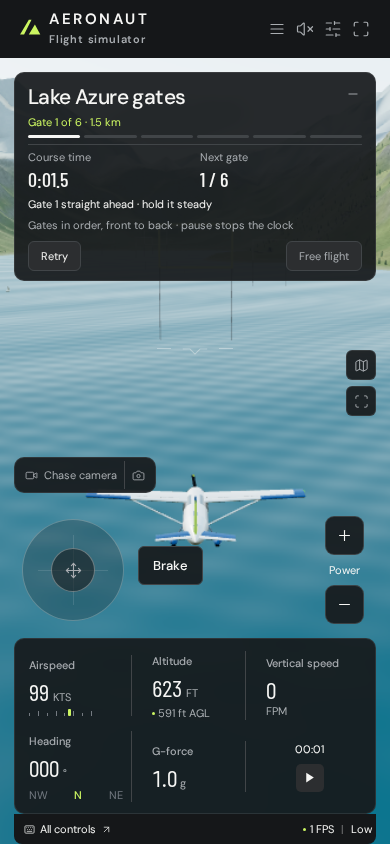
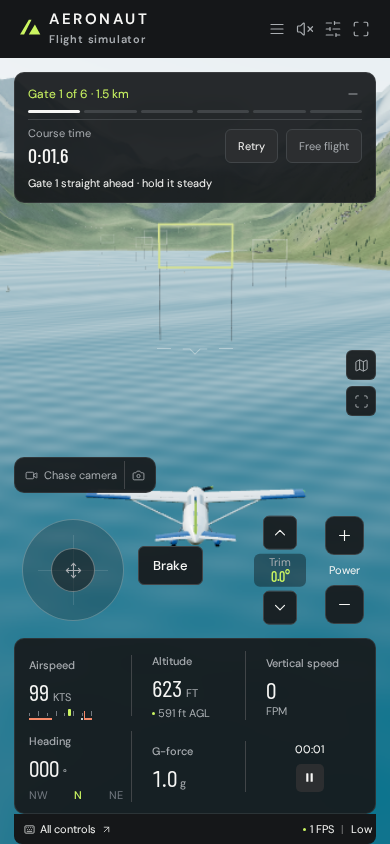
Keep the first checkpoint gate in view below a compact phone course card
On 390x844 phones the expanded course card covered the first gate's opening
in the default chase view. In course mode on phones the phase line replaces
the title, time/best share a row with Retry and Free flight, the cue is one
line and the rules stay in the brief: the card ends at 203 px, above the
projected opening (225-270 px) for the Mira T2 and Vela J8. New runs reset
the collapse button's icon and label along with the card.

Changed region(s): [[0.0308, 0.0924, 0.9846, 0.3389], [0.6462, 0.5853, 0.8, 0.7393], [0.4923, 0.5545, 0.5538, 0.5853]]

diff --git a/src/main.js b/src/main.js
@@ -179,7 +179,7 @@ function startLanding(field=landing.field){
  $('pause-overlay').hidden=$('crash-overlay').hidden=$('landing-result').hidden=true;
  $('pause-btn').setAttribute('aria-label','Pause flight');iconButton('pause-btn','pause');
  settings.showHud=true;applyDisplay();saveSettings();
- document.querySelector('.mission-panel').classList.remove('collapsed');
+ setMissionCollapsed(false);
  updateAssist();updateLandingUI();announceAirport();toast(landing.profile.helicopter?'You have control · gently lower collective to settle in the box':`You have control · follow runway ${field.runway}, then flare and idle power`);return true;
 }
 // Ends whichever activity is underway (landing mission or checkpoint course): every caller wants free flight next.
@@ -195,13 +195,14 @@ function startCourse(){
  $('pause-overlay').hidden=$('crash-overlay').hidden=$('landing-result').hidden=true;
  $('pause-btn').setAttribute('aria-label','Pause flight');iconButton('pause-btn','pause');
  settings.showHud=true;applyDisplay();saveSettings();
- document.querySelector('.mission-panel').classList.remove('collapsed');
+ setMissionCollapsed(false);
  updateAssist();updateLandingUI();announceAirport();toast('Assist holds you level toward gate 1 · steer to take control');return true;
 }
 function updateLandingUI(){
  const underway=landing.status!=='idle',s=flight.state,f=landing.field,racing=course.status!=='idle';
  // landing-mode is the mission card layout, shared by the landing mission and the checkpoint course.
  document.body.classList.toggle('landing-mode',underway||racing);
+ document.body.classList.toggle('course-mode',racing);
  document.body.classList.toggle('landing-finished',activities.finished);
  $('flight-mode').textContent=underway?'Landing mission':racing?'Checkpoint course':'Free flight';
  document.querySelector('.map-explore').textContent=underway?`Landing · runway ${f.runway}`:racing?'Checkpoint course':'Free exploration';
@@ -255,6 +256,7 @@ function updateCourseUI(){
   else cue=`Gate ${g.number} straight ahead · hold it steady`;}
  if(now<courseEventUntil)cue=courseEventText;
  $('course-cue').textContent=cue;
+ $('course-best-reading').hidden=course.best===null;if(course.best!==null)$('course-best').textContent=formatCourseTime(course.best);
  $('course-objective').textContent=`Gates in order, front to back · pause stops the clock${course.best!==null?` · best ${formatCourseTime(course.best)}`:''}`;
  if(course.finished&&!missionResultShown){
   missionResultShown=true;clearControls();clearTimeout(toastTimeout);$('toast').classList.remove('visible');$('pause-overlay').hidden=$('crash-overlay').hidden=true;
@@ -306,7 +308,9 @@ $('landing-entry').onclick=()=>showDialog('landing');$('course-entry').onclick=(
 $('course-retry').onclick=()=>startCourse();$('course-cancel').onclick=()=>cancelLanding(true);
 $('landing-retry').onclick=()=>startLanding();$('landing-result-retry').onclick=()=>course.status!=='idle'?startCourse():startLanding();
 for(const id of ['landing-cancel','landing-result-exit'])$(id).onclick=()=>cancelLanding(true);
-$('collapse-mission').onclick=()=>{const c=document.querySelector('.mission-panel');c.classList.toggle('collapsed');iconButton('collapse-mission',c.classList.contains('collapsed')?'plus':'minus');};
+// A new landing or course run always opens the card expanded, with its button saying so.
+function setMissionCollapsed(collapsed){document.querySelector('.mission-panel').classList.toggle('collapsed',collapsed);iconButton('collapse-mission',collapsed?'plus':'minus');$('collapse-mission').setAttribute('aria-label',collapsed?'Expand flight details':'Collapse flight details');$('collapse-mission').setAttribute('aria-expanded',String(!collapsed));}
+$('collapse-mission').onclick=()=>setMissionCollapsed(!document.querySelector('.mission-panel').classList.contains('collapsed'));
 $('throttle-slider').addEventListener('input',e=>{flight.state.throttle=Number(e.target.value)/100;if(flight.type.flight.rotorcraft)flight.state.autopilot=false;});
 // One audio context, unlocked by a gesture as browsers require. Sound starts off, as before; once the pilot turns
 // it on, that choice is saved and resumes at the first tap or key press after a reload.

diff --git a/src/style.css b/src/style.css
@@ -239,3 +239,19 @@ dialog.chart-dialog{width:min(1060px,calc(100% - 32px))}
 .scene-label{top:345px}@media(max-width:800px){.scene-label{top:322px}}
 /* Phones keep the free-flight card at its old height; the course starts from Menu → Explore there. */
 @media(max-width:550px){#course-entry{display:none}}
+/* Phones: the course card is one compact block above the first gate's projected opening (y ≈ 225 px in the chase view at 390×844).
+   The title gives way to the phase line, the readings share a row with Retry / Free flight, and the rules line lives in the brief. */
+.course-best{display:none}
+@media(max-width:550px){
+ .course-mode .mission-panel:not(.collapsed) h1{position:absolute;width:1px;height:1px;overflow:hidden;clip-path:inset(50%);white-space:nowrap;margin:0;padding:0}
+ .course-mode .mission-panel.collapsed{padding-bottom:12px}
+ .course-mode .mission-top{top:5px;right:6px}.course-mode .tiny-btn{width:32px;height:32px}
+ .course-mode .mission-panel:not(.collapsed) #course-guidance:not([hidden]){display:grid;grid-template-columns:1fr auto;grid-template-areas:"phase phase" "pips pips" "readings actions" "cue cue"}
+ #course-phase{grid-area:phase}.course-pips{grid-area:pips}#course-guidance .landing-readings{grid-area:readings}#course-guidance .landing-actions{grid-area:actions}#course-cue{grid-area:cue}
+ #course-phase{font-size:12px;padding-right:34px;margin-bottom:6px}
+ #course-guidance .landing-readings{grid-template-columns:auto auto auto;justify-content:start;gap:16px;padding:6px 0}
+ .course-next-reading{display:none}.course-best:not([hidden]){display:block}
+ #course-guidance .landing-actions{align-items:center;padding:6px 0;border-top:1px solid var(--border)}
+ #course-guidance .landing-actions button{min-height:34px}
+ #course-cue{margin:0;padding:2px 0 10px}#course-objective{display:none}
+}

diff --git a/index.html b/index.html
@@ -29,7 +29,7 @@
         <div id="course-guidance" class="landing-guidance" hidden>
           <p id="course-phase">Gate 1 of 6</p>
           <div class="course-pips" id="course-pips" aria-hidden="true"></div>
-          <div class="landing-readings"><div><span>Course time</span><strong id="course-time">0:00.0</strong></div><div><span id="course-next-label">Next gate</span><strong id="course-next"></strong></div></div>
+          <div class="landing-readings"><div><span>Course time</span><strong id="course-time">0:00.0</strong></div><div class="course-next-reading"><span id="course-next-label">Next gate</span><strong id="course-next"></strong></div><div class="course-best" id="course-best-reading" hidden><span>Best</span><strong id="course-best"></strong></div></div>
           <p id="course-cue" aria-live="polite"></p><p id="course-objective" class="landing-objective"></p>
           <div class="landing-actions"><button id="course-retry">Retry</button><button id="course-cancel">Free flight</button></div>
         </div>

diff --git a/docs/checkpoint-course.md b/docs/checkpoint-course.md
@@ -22,7 +22,42 @@ One curated, beginner-friendly timed course in the existing central valley: six 
   - a cue: *Turn right 11° toward gate 2*, *130 ft high · ease the nose down*, *Gate 2 straight ahead*, or *Gate 2 is behind you · turn back and enter from the front*;
   - the objective line, with the session best once there is one;
   - *Retry* and *Free flight*.
+- **Phones (≤550 px)** use a compact course card (below) so the first gate is in view from the first frame.
 - Each gate passed shows a toast with its split time. A pass that does not count shows a note for 3.5 s instead of the cue: missed (crossed outside the opening), flown backwards, or out of order.
+
+## Phone layout (390×844)
+
+In the default chase view at the default chase distance, the first gate's opening is drawn about 225–270 px from the top of a 390×844 screen. The original card used the landing mission's phone layout (title, phase line, pips, two readings, cue, rules line, buttons) and ran from 72 to 281 px, so a new run showed only the gate poles below it unless the pilot found *Collapse*.
+
+On phones the course card is now one compact block, 72–203 px:
+
+- the course title gives way to the phase line (*Gate 1 of 6 · 1.5 km*, 12 px chartreuse); the title stays in the card for screen readers and comes back when the card is collapsed;
+- the six gate pips;
+- one row: *Course time* in Barlow Condensed, *Best* once there is a session best, and *Retry* / *Free flight* (34 px tall);
+- the cue, 11 px, on one line for every cue the course writes (the longest, *Gate 2 is behind you · turn back and enter from the front*, is 286 of 334 px);
+- the rules line (*Gates in order, front to back · pause stops the clock*) is left to the brief, and the *Next gate* reading is left to the phase line and pips, which say the same.
+
+The collapse button grows to a 32 px target in course mode. A new run, Retry and a landing start always open the card expanded, with the button's icon, label (*Collapse/Expand flight details*) and `aria-expanded` reset; before, a collapsed card re-expanded on a new run but kept its *+* icon.
+
+Only `body.course-mode` at ≤550 px changes: the landing mission card, the free-flight card, tablets and desktop are untouched. Notices, the GEAR banner, the map/fullscreen buttons and the restore-HUD button keep their phone positions (notices at 350 px, GEAR at 395 px), all below the gate.
+
+### Measured (headless Chromium, 390×844, chase camera, chase distance 1)
+
+The opening's four corners were projected through the running camera (`Vector3.project` on the live gate frame, measured in a temporary probe that is not in the code) and compared with the card's `getBoundingClientRect()`:
+
+| Run | Card (x, y) | Next gate opening (x, y) | Clear by |
+| --- | --- | --- | --- |
+| Mira T2, start (0.5 s) | 14–376, 72–203 | 160–231, 225–267 | 22 px (21 px to the frame's outer edge) |
+| Vela J8, start (0.6 s) | 14–376, 72–203 | 159–231, 228–270 | 25 px |
+| Mira T2, after gate 1 (split 0:31.4) | 14–376, 72–203 | 301–365, 240–278 | 38 px |
+| Vela J8, after gate 1 (split 0:16.0) | 14–376, 72–203 | 306–373, 243–282 | 41 px |
+| Collapsed | 14–376, 72–127 | | |
+
+The card's bottom stayed at 203 px with each long cue (behind, backwards, out of order, height) and with a *Best* reading and a 12:59.9 time put in. The yoke, Brake, trim ▲/▼ and value, and Power ± were each the hit-test target at their own centres. As a gate gets close it grows past the card, as it must; the card is about clearing the gate and the direction of travel on approach.
+
+Screenshots: [Mira T2 start](checkpoint-course/course-390.png), [Mira T2 after gate 1](checkpoint-course/course-390-gate2.png), [Vela J8 start](checkpoint-course/course-390-jet.png), [Vela J8 after gate 1](checkpoint-course/course-390-jet-gate2.png), [collapsed](checkpoint-course/course-390-collapsed.png).
+
+Also checked at 390×844: pause (the overlay sits below the card), hidden HUD (the card stays, as for landing missions, with *Show hidden panels* below it) and back, a crash result (*Terrain collision*, the card hidden, *Retry the course* focused) and *Return to free flight*, which restored the free-flight card at its old 193 px width. A phone landing mission kept its own card. At 1280×800 and 1600×900 the course card is unchanged (title, *Next gate*, rules line, buttons), with the gate clear of it in the middle of the screen.
 
 ## How gates count (`src/checkpoint-course.js`)
 
@@ -89,7 +124,7 @@ Along the scripted course line the terrain lookahead stays at *clear* for the wh
   - At their 330+ kt cruise, this pilot misses gates in the Arolla F7 and Taris F12, and also overshot in the Aven W280 in some tuning runs. That is why the brief advises easing power below 210 kt for fast types.
 - **Headless Chromium (software WebGL, low quality, about 0–1 FPS):**
   - Brief: [1600×900](checkpoint-course/course-brief-1600.png), [1280×800](checkpoint-course/course-brief-1280.png) and [390×844](checkpoint-course/course-brief-390.png). It fits without a dialog scroll at 1280×800.
-  - The **Vela J8 flew gate 1 for real**, on assist, at the 0.25 s frame cap: split 0:16.0, with the cue turning to *Turn right 10° toward gate 2*. See [start](checkpoint-course/course-start-1600.png) and [after gate 1](checkpoint-course/course-gate2-1600.png). The course card at [1280×800](checkpoint-course/course-1280.png) and [390×844](checkpoint-course/course-390.png) (Mira T2, after *Switch to the Mira T2*).
+  - The **Vela J8 flew gate 1 for real**, on assist, at the 0.25 s frame cap: split 0:16.0, with the cue turning to *Turn right 10° toward gate 2*. See [start](checkpoint-course/course-start-1600.png) and [after gate 1](checkpoint-course/course-gate2-1600.png). The course card at [1280×800](checkpoint-course/course-1280.png); the phone card is under *Phone layout*.
   - Crash runs (nose held down with W) gave the result panel at [1600×900](checkpoint-course/course-result-crash-1600.png), [1280×800](checkpoint-course/course-result-1280.png) and [390×844](checkpoint-course/course-result-390.png).
   - Retry reset the run to gate 1 at 0:00.0 at the start position, with the result hidden. A landing start during the course cancelled it and hid the gates; starting the course again cancelled the landing. *Free flight* left no activity, with both entries back. The helicopter brief showed the exclusion notice with no start button, and the switch made the Mira T2 the aircraft.
   - There were no console errors.
@@ -97,6 +132,7 @@ Along the scripted course line the terrain lookahead stays at *clear* for the wh
 ## Limits
 
 - **Software rendering:** at about 0.09 simulated seconds per wall second, a full run in the browser would take about 20 minutes. So only gate 1 was flown in the browser, and the complete route evidence is the Node flights above, which use the same flight model and course code. Screenshots of the running course were taken paused with the pause overlay hidden, because the renderer was too busy to capture otherwise. The *Course complete* result was verified by the tests and the shared result code path, not captured as a screenshot.
+- **Phone evidence** comes from the same software renderer, at low quality, running live (not paused) at about 1 FPS. Gate 1 was flown for real on assist in both aircraft; the projected bounds are exact for the camera of the frame they were read in, and the screenshots are taken a frame or two later. The *Best* reading was checked with a value put into the page, because a full run takes too long in this renderer.
 - The turn and height cues are simple bearing and height differences to the gate centre. They do not plan a line.
 - The best time lasts for the browser session only, by design.
 - The navigation map still points at the selected airfield during the course; it does not show the gates.

diff --git a/styleguide.md b/styleguide.md
@@ -63,4 +63,4 @@ Wheel brakes — Alpine Flight continues unchanged. Fixed-wing phones get one ho
 Airspeed envelope — Alpine Flight continues unchanged; no new palette. Under the fixed-wing airspeed tape a 2px rule marks the usable range. Solid existing danger coral is beyond a limit: up to the stall speed for the current flaps, and from the overspeed red line, which has a 1px, 9px-tall tick. Dotted marks a margin: coral for the 20% above stall, ivory for the upper caution band. The sentence-case instrument label names the state (Low speed / High speed / Overspeed), so colour is never the only cue. Overspeed tints the label, number and unit coral. The OVERSPEED notice uses the flight notice's coral warning text without the stall banner's red flash; on phones it takes the stall banner's slot below the panels and the GEAR banner. Rotorcraft show the original plain tape.
 
 Pitch trim — Alpine Flight continues unchanged; no new palette, icon set or panel. The flight deck adds one quiet "Trim +3.5°" readout beside Gear and Flaps in the throttle cell (muted label, chartreuse when off neutral, click for neutral; the cell widens slightly above 1150px so all three keep one line). Phones get a compact column between Brake and Power: two 34px ▲/▼ hold buttons with the 6px corners, one-pixel boundary and translucent panel, turning chartreuse with graphite icons while held, and between them the value in Barlow Condensed chartreuse under a muted 11px "Trim" label, which taps to neutral. Helicopters and the free-attitude aerobatic types show N/A or hide it.
-Checkpoint course — Alpine Flight continues unchanged. The course reuses the landing mission's corner card (DM Sans phase line in chartreuse, Barlow Condensed course time and gate count, muted objective, 6px Retry / Free flight buttons) with one row of 3px gate pips: chartreuse for flown, ivory for next, the border grey for later. In the world the next gate is a chartreuse frame of 3.5 m bars, later gates are ivory at half opacity, and thin translucent graphite poles drop to the water; passed gates disappear. All of it is fogged with the valley haze and depth-tested, with no glow, gradient or new palette. The brief and the result reuse the landing brief and result panel; phones start the course from Menu → Explore so the free-flight card keeps its height.
+Checkpoint course — Alpine Flight continues unchanged. The course reuses the landing mission's corner card (DM Sans phase line in chartreuse, Barlow Condensed course time and gate count, muted objective, 6px Retry / Free flight buttons) with one row of 3px gate pips: chartreuse for flown, ivory for next, the border grey for later. In the world the next gate is a chartreuse frame of 3.5 m bars, later gates are ivory at half opacity, and thin translucent graphite poles drop to the water; passed gates disappear. All of it is fogged with the valley haze and depth-tested, with no glow, gradient or new palette. The brief and the result reuse the landing brief and result panel; phones start the course from Menu → Explore so the free-flight card keeps its height. On phones the running course card is compact so the first gate shows below it: the phase line replaces the title, course time (and best) share a row with Retry / Free flight, one cue line, and the rules stay in the brief.
